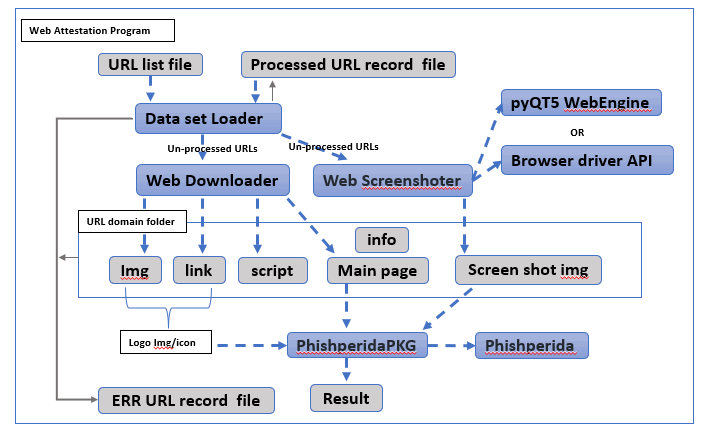
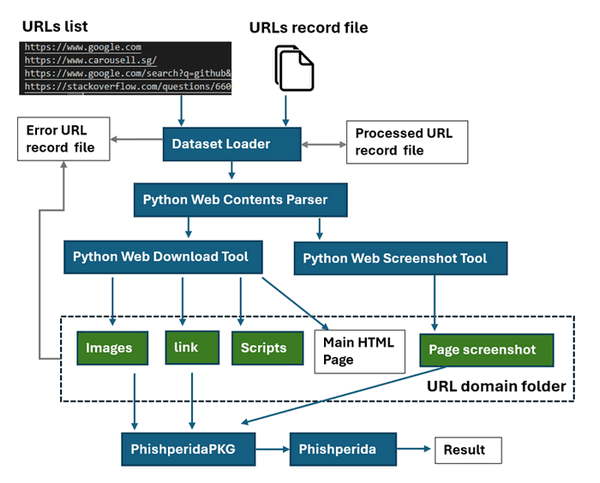
Update the design document and read me file.

diff --git a/README.md b/README.md
@@ -1,47 +1,31 @@
-# WebAttestation
-**Program Design Purpose**: We want to check several batch of web URLs (1~100 K) and find the phishing website/URL among them. 
+# Python Web Attestation Tool
+**Program Design Purpose**: We want to create a automated tool to download the web contents from a URL and do screen shot of the web page, then fill all the data to the Phishperida program to  check several batch of web URLs (1~10K) and find the phishing website/URL among them. The program workflow is depicted below:
 
+![](doc/img/workflow.png)
 
+The project will use the [NUS-Phishperida project](https://github.com/lindsey98/Phishpedia) developed by Prof Yun Lin and Ruofan Liu to do the phishing website identification,  [Py_Web_Screenshot_Capture_Tool](https://github.com/LiuYuancheng/Py_Web_Screenshot_Capture_Tool) and [Py_Web_Contents_Download_Tool](https://github.com/LiuYuancheng/Py_Web_Contents_Download_Tool) to do the web contents automated archiving. 
+
+```
+# Created:     2021/11/25
+# Version:     v_0.1.2
+# Copyright:   Copyright (c) 2024 LiuYuancheng
+# License:     MIT License 
+```
+
+**Table of Contents**
 
 [TOC]
 
+------
+
 ### Introduction 
 
-This module is designed to do the URL/web attestation by using the API from NUS-Phishperida-Project. The program contents four main parts: DatasetLoader ,WebDownloader, webScreenShoter and PhishperidaPKG. 
+This module is designed to do the URL/web attestation by using the API from NUS-Phishperida-Project. The program contents four main modules: 
 
-
-
-###### DatasetLoader
-
-This module is used to load the URLs data from the URL list, record the processed URLs and error URLs. If the program/thread crashed, the program will continuous its task after restarting: the processed url will be ingored, then it will remove the corrupted file and continuous with not processed URLs 
-
-
-
-###### WebDownloader
-
-This module will provide API to download the webpage component: html file, image file, javascript file, href link file based on the input URL. 
-
-**Module detail doc** : https://github.com/LiuYuancheng/WebAttestation/blob/main/WebDownloadReadme.md
-
-
-
-###### WebScreenShoter
-
-This module will use different web browser's driver or QT5-webEngine to capture the webpage's screen shot based on the given URL.
-
-**Module detail doc** :https://github.com/LiuYuancheng/WebAttestation/blob/main/WebScreenShotReadme.md
-
-
-
-###### PhishperidaPKG
-
-This module is used to encapsulate the NUS-Phishperida project (not OOP) as a black box API for other projects to use.
-
-NUS-Phishperida project: https://github.com/lindsey98/Phishpedia
-
-**Module detail doc** :https://github.com/LiuYuancheng/WebAttestation/blob/main/PhishpediaReadme.md
-
-
+- DatasetLoader: load the urls data set from batches of config files and filtered the processed urls. 
+- WebDownloader: Download the contents from the target url and archive. 
+- webScreenShoter: Do screen shot of the web page. 
+- PhishperidaPKG : A wrapper module to call the Phishperida lib and record the verification result.
 
 For each URL, the program will do below steps:
 
@@ -52,13 +36,37 @@ For each URL, the program will do below steps:
 
 
 
-###### Program Workflow
+##### DatasetLoader Module 
 
-If you set the program running under single thread, the program work flow diagram will be shown as below: 
+This module is used to load the URLs data from the URL list, record the processed URLs and error URLs. If the program/thread crashed, the program will continuous its task after restarting: the processed url will be ingored, then it will remove the corrupted file and continuous with not processed URLs 
 
-![](doc/img/workflow.png)
+##### WebDownloader Module 
 
-version: v_0.2
+The module used for  facilitate the scraping and downloading of all components associated with multiple batches of webpages, including `.html` files, `.css` stylesheets, `images`, `XML` files, `videos`, `JavaScript` files, and host `SSL certificates`, based on a provided list of URLs. The program workflow is depicted below:
+
+![](doc/img/downloader.png)
+
+> For the detail, please refer to the lib module :  [Py_Web_Contents_Download_Tool](https://github.com/LiuYuancheng/Py_Web_Contents_Download_Tool)
+
+
+
+##### WebScreenShoter Module 
+
+This module will use two different web drivers, Selenium Google Chrome Driver and QT5 Web Engine, to capture webpage screenshots.  The program workflow is depicted below:
+
+![](doc/img/screenshoter.png)
+
+> For the detail, please refer to the lib module : [Py_Web_Screenshot_Capture_Tool](https://github.com/LiuYuancheng/Py_Web_Screenshot_Capture_Tool)
+
+
+
+##### PhishperidaPKG Module 
+
+This module is used to encapsulate the NUS-Phishperida project (not OOP) as a black box API for other projects to use.
+
+NUS-Phishperida project: https://github.com/lindsey98/Phishpedia
+
+**Module detail doc** :https://github.com/LiuYuancheng/WebAttestation/blob/main/PhishpediaReadme.md
 
 
 
